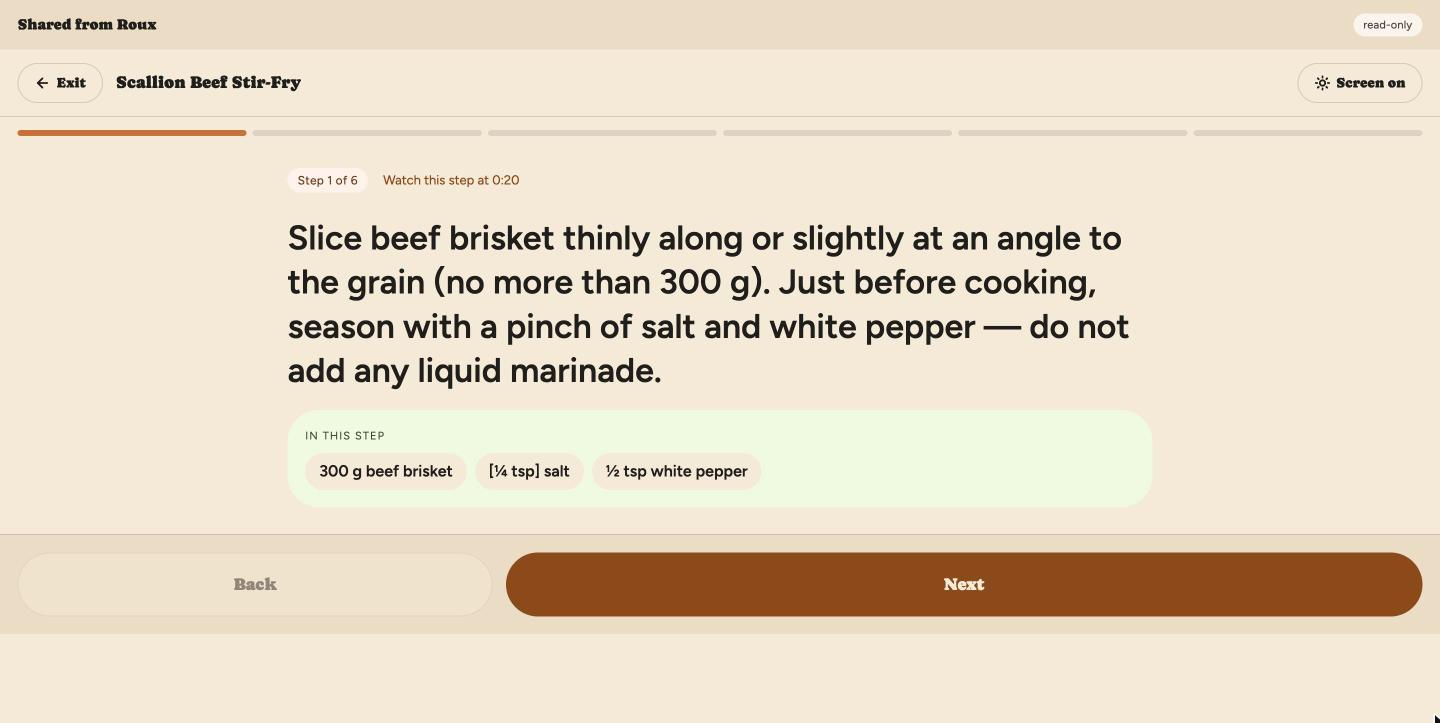
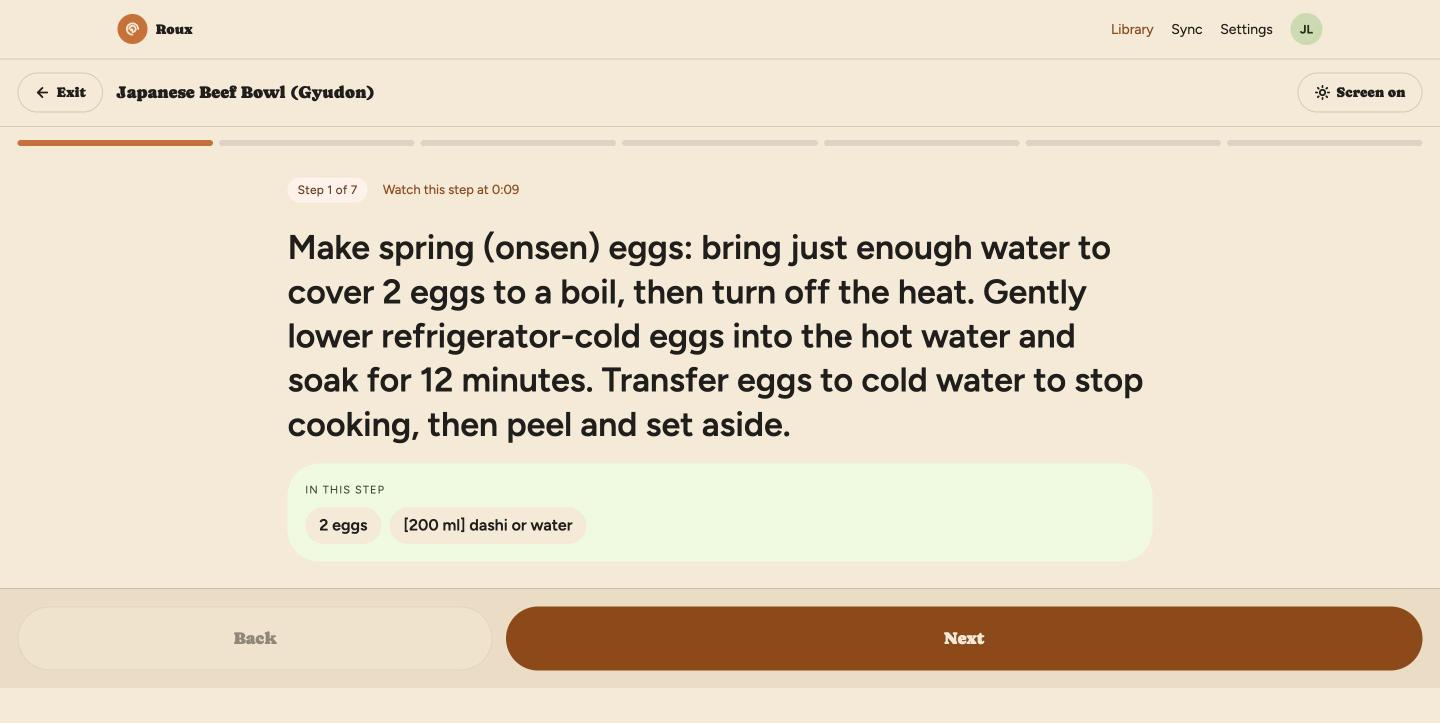
docs: reshoot screenshots from the owner view
Signed-in views instead of the guest link: nav, archive toggle, verified
badges, edit/share controls and the private notes box. Library filtered to
Japanese; recipe and cook mode both show Japanese Beef Bowl.

Recipe captured at a 1423px viewport so the whole page fits in one frame.
Cook mode stays at 900 — it is built for a short viewport and leaves dead
space in a tall one.

Claude-Session: https://claude.ai/code/session_01RuVtPvDYGQ9BpXo6rQyzhR

diff --git a/README.md b/README.md
@@ -4,13 +4,13 @@ Private web app: YouTube cooking playlists → searchable recipe library (ingred
 
 ## Screenshots
 
-**Library** — every recipe pulled from the playlist, filtered by cuisine and main ingredient, searchable by ingredient or author.
+**Library** — every recipe from the playlist, filtered by cuisine and main ingredient, searchable by ingredient or author. Here: Japanese, 33 of 164.
 
-![Library view: recipe cards in a grid, with cuisine and main-ingredient filters](docs/screenshots/library.jpg)
+![Library view: a grid of Japanese recipe cards, with cuisine and main-ingredient filter rows above](docs/screenshots/library.jpg)
 
-**Recipe** — ingredients grouped by role, with the source video and per-step timestamps.
+**Recipe** — ingredients grouped by role, steps linked to the moment in the video, private notes at the bottom.
 
-![Recipe view: Scallion Beef Stir-Fry, ingredients grouped under protein, produce and aromatics](docs/screenshots/recipe.jpg)
+![Recipe view: Japanese Beef Bowl, ingredients grouped under protein, produce, sauces and liquids, with seven timestamped steps](docs/screenshots/recipe.jpg)
 
 **Cook mode** — one step at a time, only the ingredients that step needs, screen kept awake.
 
